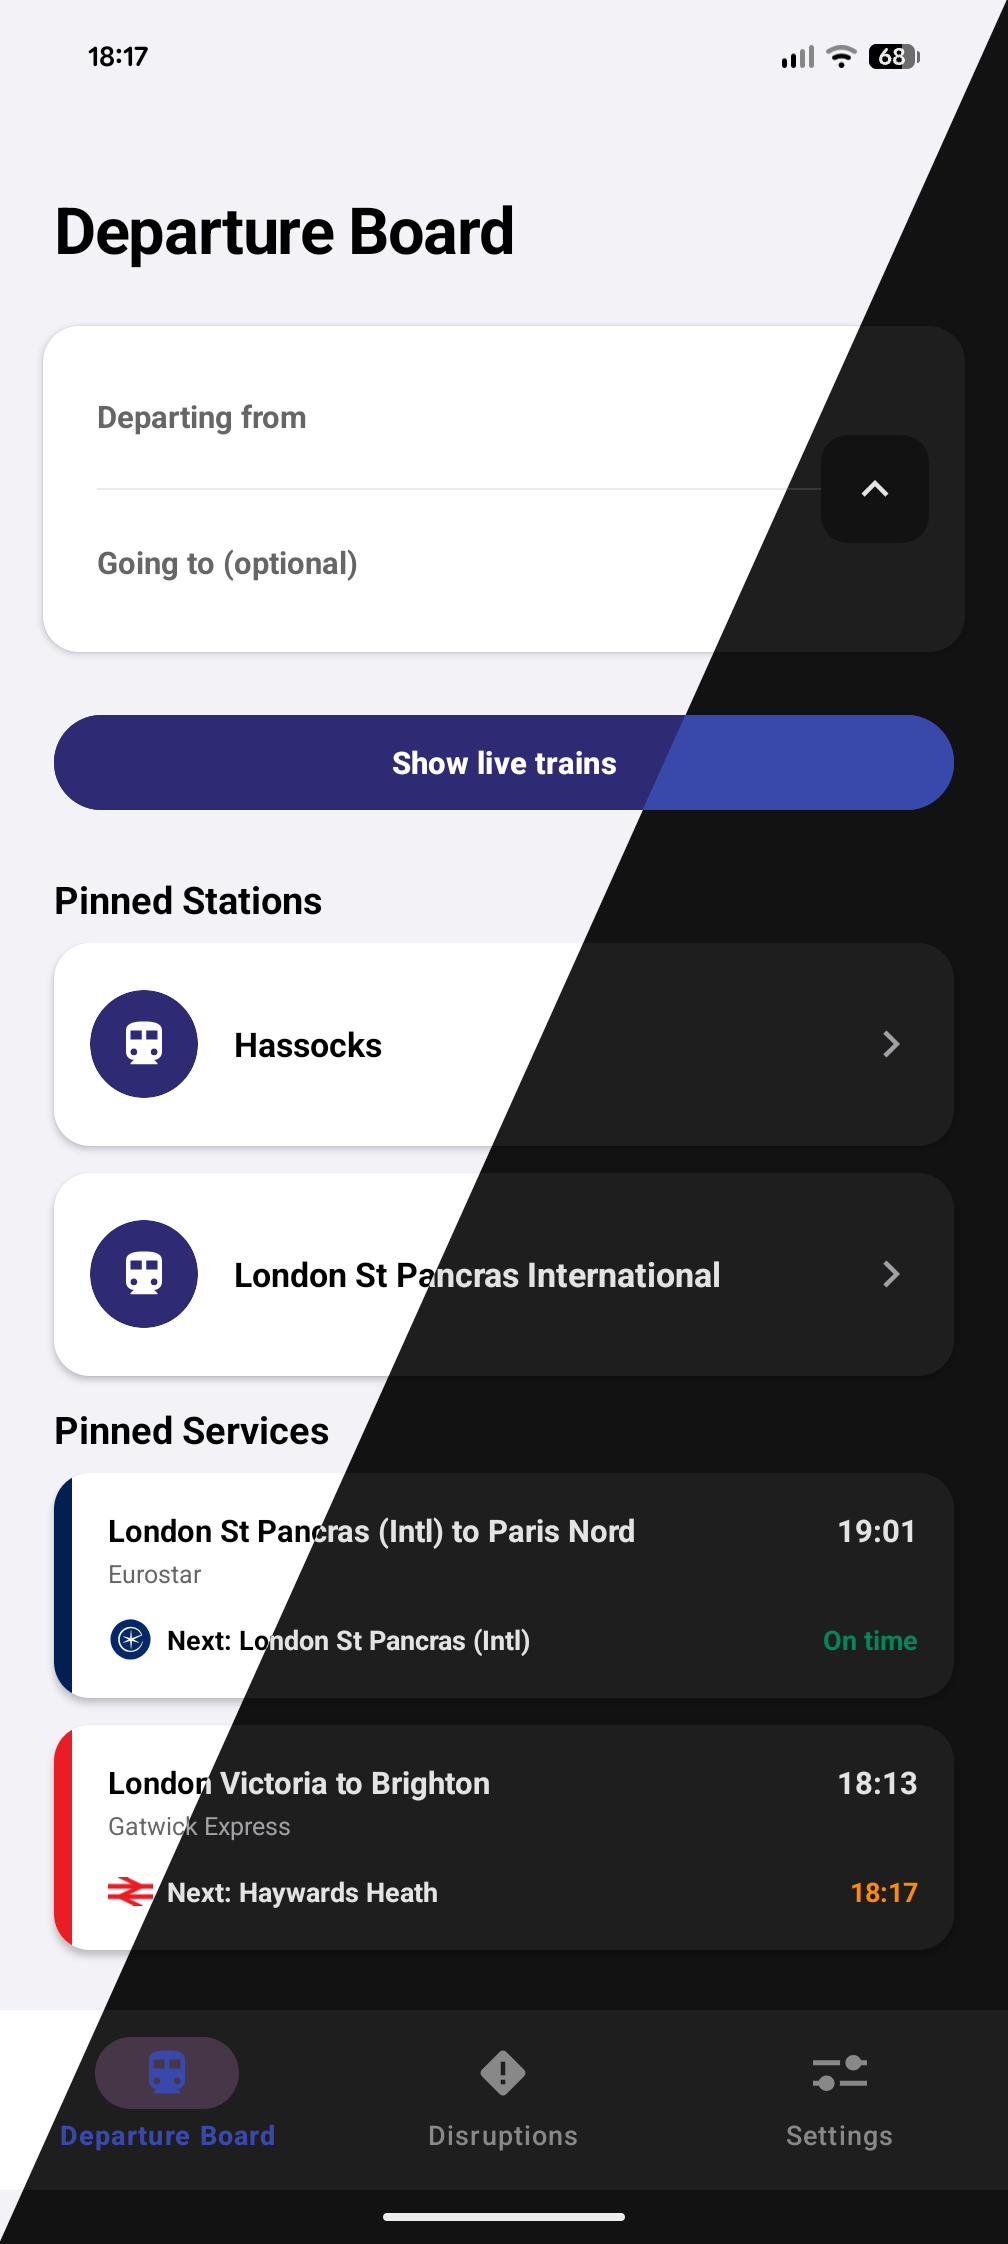
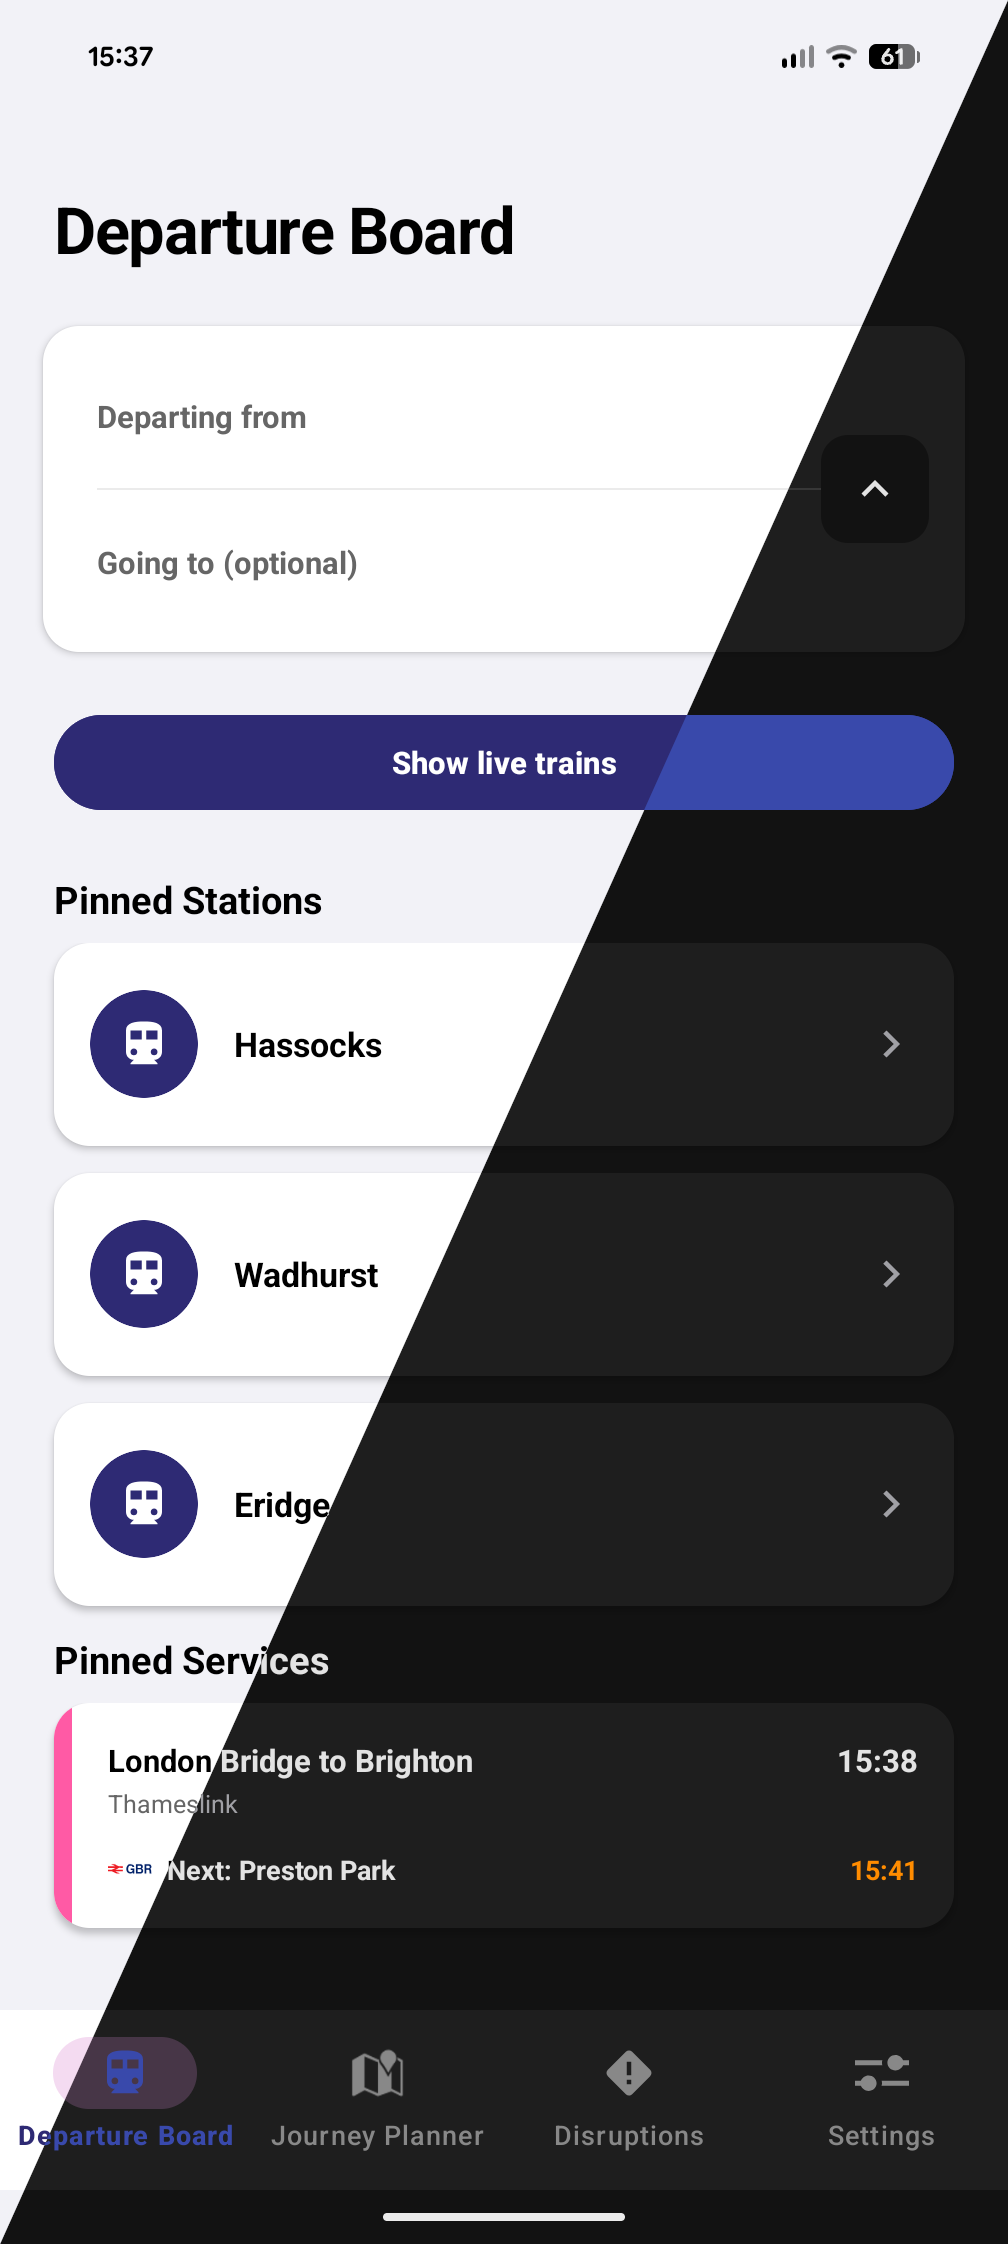
Updated readme

diff --git a/README.md b/README.md
@@ -1,49 +1,104 @@
-# Calling Point
+# CallingPoint
 
-Calling Point is a sleek, modern Android application and Home Screen Widget designed to keep you updated on real-time train disruptions across the UK National Rail network. Inspired by modern transit apps like TfL Go, it delivers clean, perfectly aligned disruption alerts right to your home screen.
+CallingPoint is a robust, feature-rich Android companion app designed for navigating the UK National Rail network. Built with a focus on real-time accuracy and intuitive design, it provides commuters and travelers with live departure boards, intelligent journey routing, and proactive disruption alerts.
 
-## Screenshots
+---
 
-|                                              Departure Board                                              |                                             Station Services                                              |                                          Service Information                                          |                                                  Widget                                                   |
-|:---------------------------------------------------------------------------------------------------------:|:---------------------------------------------------------------------------------------------------------:|:-----------------------------------------------------------------------------------------------------:|:---------------------------------------------------------------------------------------------------------:|
-| <img src="readmeimg/DepartureBoard-Mixed.png" width="200" alt="App page for information on departures" /> | <img src="readmeimg/StationServices-Mixed.png" width="200" alt="Information for your selected station" /> | <img src="readmeimg/ServiceInfo-Mixed.png" width="200" alt="Information for your selected service" /> | <img src="readmeimg/Widget.png" width="200" alt="Android home screen widget showing disruption status" /> |
-|                                            **Disruption Page**                                            |                                          **Detailed Disruption**                                          |                                             **Settings**                                              |                                                                                                           |
-|  <img src="readmeimg/Disruption-Mixed.png" width="200" alt="App page for information on disruptions" />   | <img src="readmeimg/DetailedDisruption-Mixed.png" width="200" alt="Detials on the selected disruption" /> |              <img src="readmeimg/Settings-Mixed.png" width="200" alt="Settings page" />               |                                                                                                           |
-## Features
+## 🌟 Features
 
-* **Live Disruption Widget:** A beautifully aligned, customisable widget that sits on your home screen and updates seamlessly.
-* **TOC Filtering:** Filter disruptions by your specific Train Operating Companies (e.g., Thameslink, Southeastern, Southern, London Overground).
-* **Smart Caching & Syncing:** Minimises battery drain and API calls. The widget updates instantly when you modify filters or refresh the main app, avoiding background crash loops.
-* **Detailed Incident Reports:** Tap the widget to open the app and read full, clickable HTML incident reports directly from National Rail.
-* **Dynamic Branding:** UI elements dynamically tint to match the official brand colours of the affected train operators.
+### 🚉 Live Departure Boards & Station Pins
+Instantly check live departure times, platforms, and train operators for any station in the UK. To streamline your daily commute, you can pin your most frequented stations or specific live train services directly to the main dashboard for quick, one-tap access.
 
-## Tech Stack
+<div align="center">
+  <img src="./readmeimg/DepartureBoard-Mixed.png" width="400" alt="Departure Board Dashboard"/>
+  <img src="./readmeimg/StationView-Mixed.png" width="400" alt="Live Station View"/>
+</div>
+
+### 🗺 Intelligent Journey Planner
+Plan your travels effortlessly with a custom routing engine. The app finds direct trains, calculates multi-change routes, and even maps out cross-city transfers.
+* Search and compare multiple journey options, viewing total durations and real-time delays at a glance.
+* Save your most frequent routes to the "Saved Journeys" list for instant planning.
+* Built in google maps implementation
+
+<div align="center">
+  <img src="./readmeimg/JourneyPlannerFragment-Mixed.png" width="260" alt="Journey Planner Tab"/>
+  <img src="./readmeimg/JourneyPlanner-Mixed.png" width="260" alt="Journey Options"/>
+  <img src="./readmeimg/PlannedJourney-Mixed.png" width="260" alt="Planned Journey Route"/>
+</div>
+
+### 🚆 In-Depth Service Details
+Track your train's exact progress along its route. The service details view provides a visual timeline of all calling points, comparing scheduled times against live estimates. For supported services, you can check the train's coach formation (e.g., 12 coaches) and easily locate onboard facilities like accessible toilets before you board.
+
+<div align="center">
+  <img src="./readmeimg/ServiceDetails-Mixed.png" width="400" alt="Train Service Details"/>
+</div>
+
+### ⚠ Live Disruptions & Home Screen Widget
+Never get caught off-guard by delays or cancellations. The Disruptions tab clearly categorizes network status into Tracked Operators, Other Operators, and Planned Engineering Works.
+* Drill down into specific operators to read detailed active incident reports and replacement bus advice.
+* Add the CallingPoint widget to your home screen for at-a-glance status updates (e.g., "Good service on selected lines") that automatically refresh in the background.
+
+<div align="center">
+  <img src="./readmeimg/DisruptionFragment-Mixed.png" width="400" alt="Disruptions Dashboard"/>
+  <img src="./readmeimg/DisruptionDetails-Mixed.jpg" width="400" alt="Disruption Incident Details"/>
+</div>
+<br>
+<div align="center">
+  <img src="./readmeimg/Widget.png" width="400" alt="Home Screen Widget"/>
+</div>
+
+### ⚙ Personalisation & Settings
+Tailor the app to your preferences. Select between Auto, Light, and Dark themes for a comfortable viewing experience in any environment. You can securely configure your own National Rail API credentials and customise exactly which Train Operating Companies (TOCs) you want to actively track on your widget.
+
+<div align="center">
+  <img src="./readmeimg/Settings-Mixed.png" width="400" alt="Settings Menu"/>
+</div>
+
+---
+
+## 🛠 Tech Stack & Architecture
 
 * **Language:** Java
-* **Platform:** Android SDK
-* **Networking:** Retrofit2 & Gson
-* **Data Storage:** SharedPreferences (Local Caching)
-* **API:** National Rail Disruptions Experience API
+* **Architecture:** Fragment-based UI architecture.
+* **Background Processing:** Utilises Android `WorkManager` for silent, periodic data synchronisation.
+* **Networking:** Retrofit2 and Gson for parsing complex National Rail JSON APIs (LDBWS, Service Details, Disruptions).
+* **Data Persistence:** `SharedPreferences` for pinning stations, offline journey caching, and secure user configurations.
+* **Custom Routing Engine:** Incorporates an on-device graph-based routing engine combined with a custom cross-city transfer manager for precise multi-leg journeys.
 
-## Obtaining National Rail API Keys
+---
 
-To use this app, you need free API tokens from Rail Data:
+## 🚀 Getting Started
+
+### Download the App
+The easiest way to use CallingPoint is to download the latest compiled APK directly from the **[GitHub Releases](https://github.com/Turtle358/CallingPoint/releases)** page.
+
+### API Configuration
+To fetch live data, CallingPoint requires active API keys from the National Rail Data Portal. Follow these steps to configure your app:
 
 1. Go to the [Rail Data Marketplace](https://raildata.org.uk).
 2. Click **Register** and create a free account.
-3. Once logged in, navigate to "Search the marketplace"
-4. Search for [Service Details](https://raildata.org.uk/dashboard/dataProduct/P-4dec1247-d040-4290-80a4-639dfac54a92/overview), [Live Departure Board](https://raildata.org.uk/dashboard/dataProduct/P-d81d6eaf-8060-4467-a339-1c833e50cbbe/overview), and [NationalRail Disruptions API](https://raildata.org.uk/dashboard/dataProduct/P-fcf959e5-e454-4bef-a97d-83c749194f63/overview)
-5. Once subscribed, you will be issued a **Customer Keys** (Token).
-6. Copy these key's and paste it into the respective inputs under settings inside the Calling Point app.
+3. Once logged in, navigate to **Search the marketplace**.
+4. Search for and subscribe to the following data products:
+    - [Service Details](https://raildata.org.uk/dashboard/dataProduct/P-4dec1247-d040-4290-80a4-639dfac54a92/overview)
+    - [Live Departure Board](https://raildata.org.uk/dashboard/dataProduct/P-d81d6eaf-8060-4467-a339-1c833e50cbbe/overview)
+    - [NationalRail Disruptions API](https://raildata.org.uk/dashboard/dataProduct/P-fcf959e5-e454-4bef-a97d-83c749194f63/overview)
+5. Once subscribed, you will be issued **Customer Keys** (Tokens) for each service.
+6. Open the Calling Point app, navigate to the **Settings** tab, and paste these keys into their respective input fields.
 
-## Setup & Installation
+### Building from Source
+If you prefer to build the app yourself:
+1. Clone the repository to your local machine.
+2. Open the project in Android Studio.
+3. Build and deploy the app to your device or emulator.
 
-1. Download the APK from the latest release.
-2. On the first launch, tap the settings icon to enter your **Customer Keys** and select your tracked TOCs.
-3. Add the **Calling Point** widget to your Android home screen.
+---
+
+## 📄 License
+
+This project is open-source and available under standard open-source licensing.
 
 ## Acknowledgements & Credits
 
 > **Data:** Provided by [Rail Data](https://raildata.org.uk).
-> 
+>
 > **Assets:** The app icon was generated using AI.
